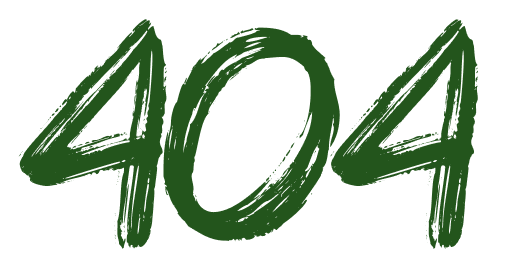
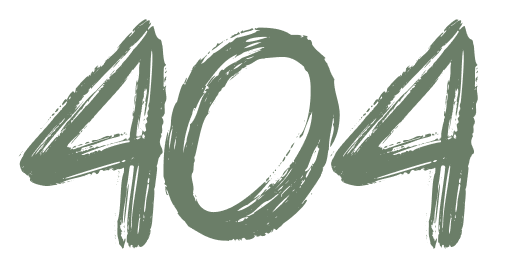
styles fix

Changed region(s): [[0.0312, 0.0584, 0.9375, 0.9051]]

diff --git a/apps/mhnt/src/components/Navbar/Navbar.tsx b/apps/mhnt/src/components/Navbar/Navbar.tsx
@@ -42,14 +42,14 @@ export const Navbar = () => {
   const navbarOpacity = Math.min(scrollY / 100, 1);
 
   return (
-    <nav className="w-full h-nav flex justify-start items-center sticky border-b-4 border-border shadow-secondary shadow-xl overflow-clip">
+    <nav className="w-full h-nav flex justify-start items-center sticky z-10 top-0 border-b-4 border-border shadow-secondary shadow-xl overflow-clip">
       <div
         style={{ opacity: navbarOpacity }}
         className="absolute bg-background/90 h-nav w-full -z-10 top-0 left-0"
       />
       <div
         ref={imageContainerRef}
-        className="border-l-8 border-b-4 border-accent-foreground h-full bg-primary shrink-0 max-w-[calc(100vw-var(--spacing)*16)]"
+        className="border-r-8 border-b-4 border-accent-foreground h-full bg-primary shrink-0 max-w-[calc(100vw-var(--spacing)*16)]"
       >
         <Button asChild variant="ghost" size="reset" className="h-full w-auto">
           <Link href="/" className="h-full w-auto">

diff --git a/apps/mhnt/src/app/page.tsx b/apps/mhnt/src/app/page.tsx
@@ -7,7 +7,7 @@ export default async function HomePage() {
   const session = await auth.api.getSession({ headers });
 
   return (
-    <div className="flex flex-col gap-12 grow justify-start items-center py-12">
+    <div className="flex flex-col gap-12 grow justify-start items-center py-12 h-[2048px]">
       {session ? `logged in role: ${session.user.role}` : "logged out"}
       {session ? <SignOutBtn /> : null}
     </div>

diff --git a/apps/mhnt/src/app/variables.css b/apps/mhnt/src/app/variables.css
@@ -4,8 +4,7 @@
   --secondary: oklch(57.93% 0.18418 296.432);
   --foreground: var(--primary);
   --main-foreground: var(--primary);
-  --accent-foreground: oklch(39.366% 0.12539 144.591);
-
+  --accent-foreground: oklch(57.12% 0.04 141.31);
   --main: oklch(22.213% 0.00003 271.152);
   --border: var(--primary);
   --ring: var(--primary);
